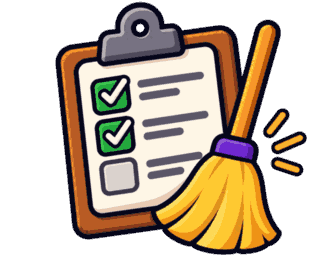
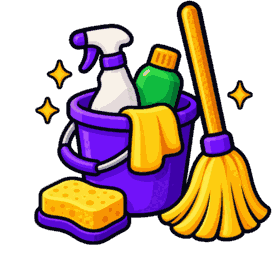
feat: new art for the chores door
A bucket, a mop, a sponge and a spray bottle where a ticked checklist
used to be.

It does two things at once. It stops the chores and the tasks reading as
the same picture — two clipboards with green ticks were the two doors
hardest to tell apart, which is the one job door art has. And it obeys
the guard rails: no ticks, no checklist, nothing depicting a completion,
no grey, and a violet-and-amber chord straight off the palette.

So the exception the chores door carried is retired rather than defended.
The entry stays in DESIGN.md because the reasoning is the useful part: a
drawing that reads instantly as chores never needed a checklist to do it,
and the version that avoided one is also the version that stopped
colliding.

One exception remains, on the tasks door, and it is named as the one
rather than left as a pattern.

diff --git a/.impeccable/comps/tasks-screen.html b/.impeccable/comps/tasks-screen.html
@@ -27,6 +27,12 @@ TWO ACTIONS, DELIBERATELY:
 STATES BUILT: the tasks screen with three tasks; the archive; the empty state;
 and the home screen with three doors.
 
+THE CHORES ART was replaced by the owner on 20 August 2026 — a bucket, a mop, a
+sponge and a spray bottle where a ticked checklist used to be. It obeys the
+door art guard rails (no ticks, no completion, no grey), so the exception the
+chores door carried is retired; and it stops the chores and the tasks reading
+as the same picture, which two clipboards did.
+
 THE THIRD DOOR amends DESIGN.md's "only ever two", in writing and on purpose:
 the sentence the home screen tells is three things now. The doors stay equals —
 one grid, identical cells, identical stock and depth. On a phone three cells are

diff --git a/DESIGN.md b/DESIGN.md
@@ -581,25 +581,30 @@ state colour *as a state* (amber as straw is a colour, a green tick is a claim);
 never grey; never orange. Only ever two drawings, because there are only ever
 two doors.
 
-**The exceptions the door art carries.** The owner's own chores illustration
-shows grey on a clipboard's clip and two ticked boxes beside one empty — a
-progress reading drawn as a picture, in the `done` green, on the product whose
-hardest rule is never a count in any form. It was refused on those grounds and
-then chosen anyway, by the owner, for his own home screen: it is warm, it reads
-instantly as chores, and it is his product. This is the only surface in the
-system where grey appears and the only place a completion is depicted. It is
-illustration rather than interface — nothing here reports state — and it is
-recorded so nobody re-litigates it or quietly "fixes" it.
+**The exception the door art carries, and the one that was retired.**
 
-A third door arrived on 20 August 2026 and its art carries the same two faults,
-chosen the same way: a clipboard with two ticked rows, one unticked, a grey
-clip. The line that used to sit here — *"if a third door is ever added, this is
-not the precedent to follow"* — turned out to be wrong, so it is replaced by
-what is actually true: **door art is the owner's, and the guard rails govern
-anything drawn by anyone else.** What it costs is unchanged and worth
-restating: these are the only surfaces in the system where grey appears or a
-completion is depicted, none of them reports state, and nothing on any screen
-counts.
+The chores door wore a clipboard with two ticked boxes beside one empty, and a
+grey clip — a progress reading drawn as a picture, in the `done` green, on the
+product whose hardest rule is never a count in any form. It was refused on
+those grounds, chosen anyway by the owner, and recorded here as a deliberate
+exception rather than an oversight.
+
+**On 20 August 2026 the owner replaced it** with a bucket, a mop, a sponge and
+a spray bottle — violet and amber, no ticks, no checklist, nothing depicting a
+completion and no grey. It obeys the rails. So that exception is retired rather
+than defended, and the entry stays because the reasoning is the useful part: a
+drawing that reads instantly as chores did not need a checklist to do it, and
+the version that avoided one is also the version that stopped colliding with
+the tasks door.
+
+**The tasks door still carries one.** Its clipboard shows two ticked rows, one
+unticked, and a grey clip — the same two faults, chosen the same way. The line
+that used to sit here, *"if a third door is ever added, this is not the
+precedent to follow"*, turned out to be wrong, so it is replaced by what is
+actually true: **door art is the owner's, and the guard rails govern anything
+drawn by anyone else.** What it costs is one surface where grey appears and one
+where a completion is depicted. Neither reports state, and nothing on any
+screen counts.
 
 ### The Peek — removed, and why it stays removed
 
